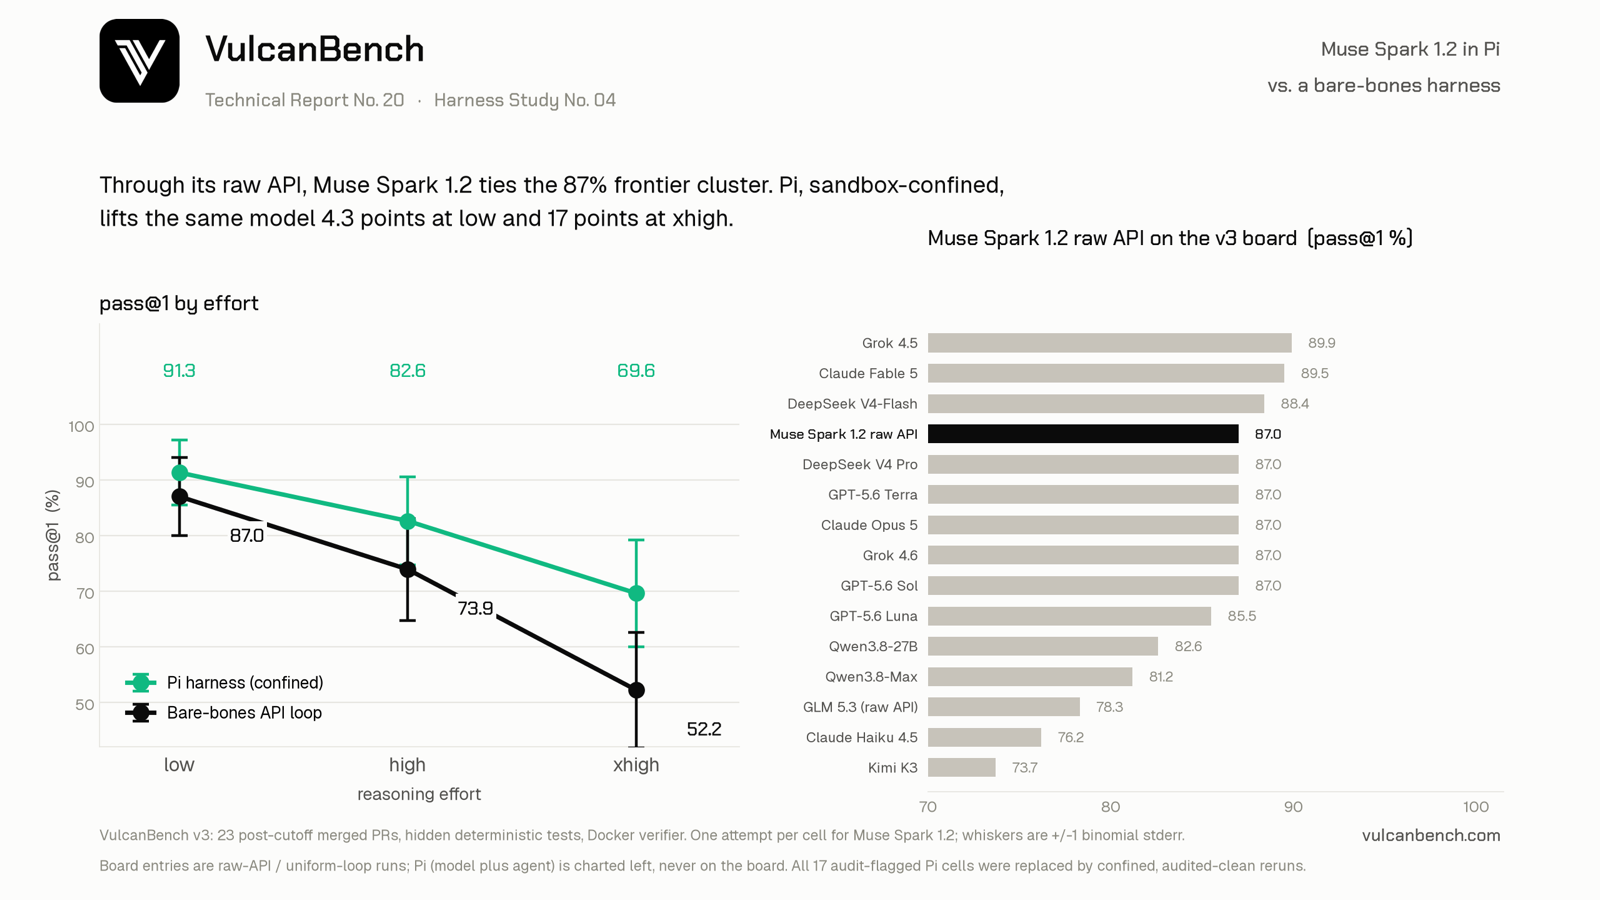
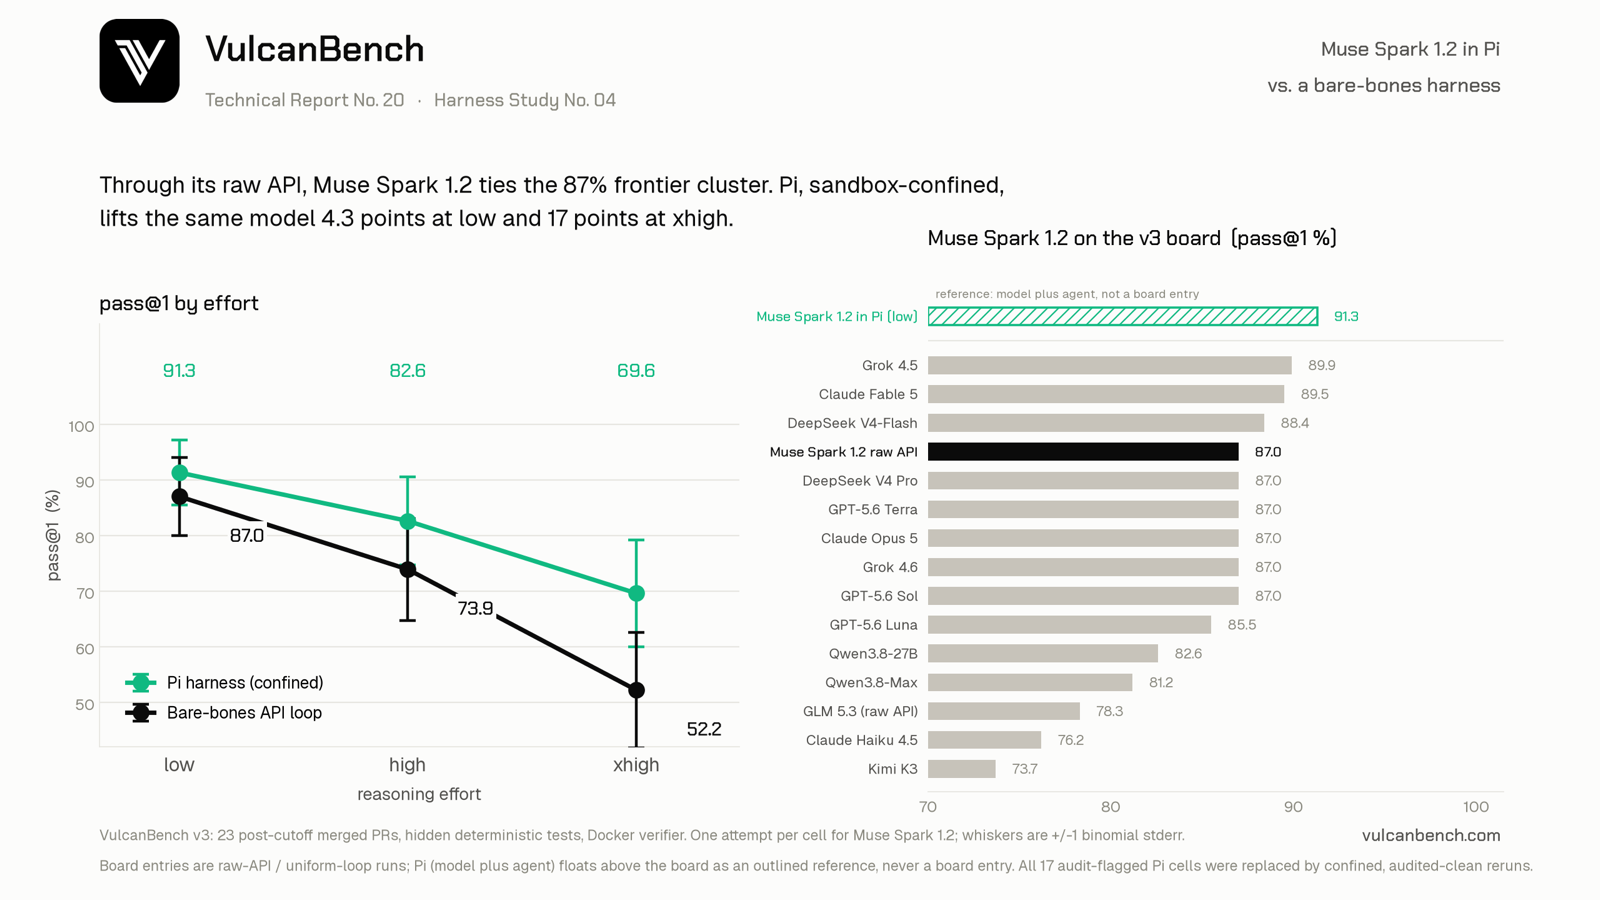
Report 20 card: float the Pi number above the board as a reference bar
Readers could not see where model-plus-Pi lands relative to the field.
The Pi low number (91.3) now floats above the board as a green hatched
outline labeled as a reference, not a board entry, matching Report 18's
ZCode reference treatment. Figcaption and alt text updated.

diff --git a/benchmarks/20-musespark-pi-harness.html b/benchmarks/20-musespark-pi-harness.html
@@ -100,8 +100,8 @@
   </div>
 
   <figure>
-    <img src="../assets/cards/report20-musespark-pi.png" alt="Harness Study card: Muse Spark 1.2 scores 91.3, 82.6 and 69.6 percent across low, high and xhigh effort through the Pi harness, against 87.0, 73.9 and 52.2 through the bare-bones API loop, plus a leaderboard panel showing the raw-API entry tied in the 87 percent frontier cluster" width="1600" height="900" loading="lazy" decoding="async">
-    <figcaption><b>Card.</b> One line per harness on a shared effort axis, whiskers &plusmn;1 stderr; the right panel places Muse Spark&rsquo;s raw-API best on the v3 best-effort board. Pi (model plus agent) is charted on the left and never joins the board.</figcaption>
+    <img src="../assets/cards/report20-musespark-pi.png" alt="Harness Study card: Muse Spark 1.2 scores 91.3, 82.6 and 69.6 percent across low, high and xhigh effort through the Pi harness, against 87.0, 73.9 and 52.2 through the bare-bones API loop, plus a leaderboard panel showing the raw-API entry tied in the 87 percent frontier cluster and the Pi number floating above the board as an outlined reference bar" width="1600" height="900" loading="lazy" decoding="async">
+    <figcaption><b>Card.</b> One line per harness on a shared effort axis, whiskers &plusmn;1 stderr; the right panel places Muse Spark&rsquo;s raw-API best on the v3 best-effort board, with the Pi number floating above the field as an outlined reference. Pi (model plus agent) never joins the board itself.</figcaption>
   </figure>
 
   <section style="padding-top:20px;">
